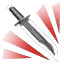
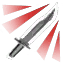
Fix some "squished" obits

diff --git a/source/src/console.cpp b/source/src/console.cpp
@@ -172,9 +172,10 @@ struct obitlist
 			case GUN_SHOTGUN:
 			case GUN_SNIPER:
 				aspect = 4; break;
-			case GUN_SUBGUN:
 			case GUN_BOLT:
 			case GUN_ASSAULT:
+				aspect = 3; break;
+			case GUN_SUBGUN:
 				aspect = 2; break;
 			case GUN_AKIMBO:
 				style = GUN_PISTOL; // break;
